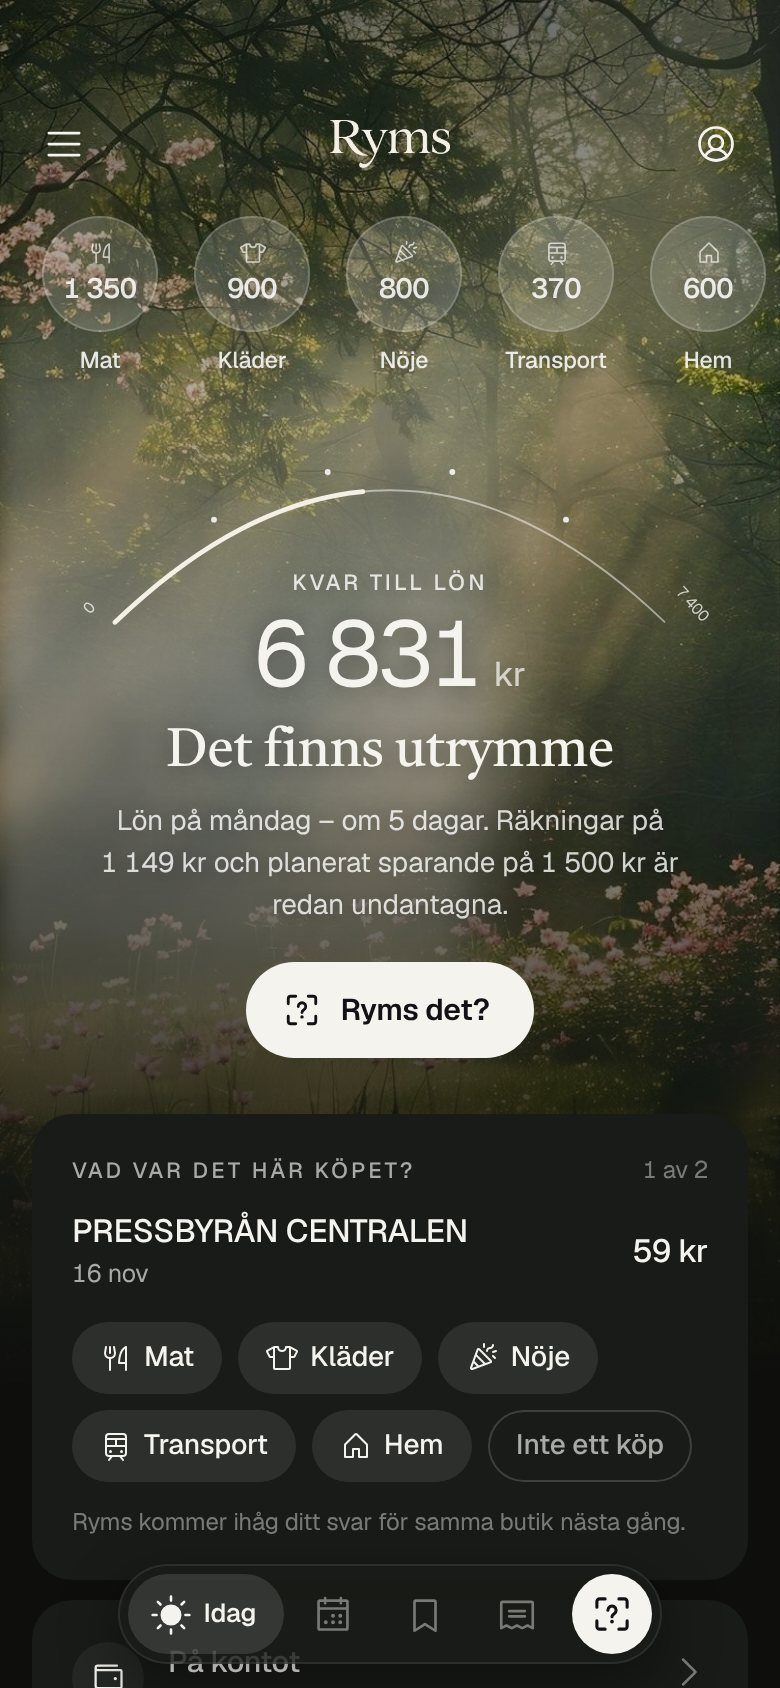
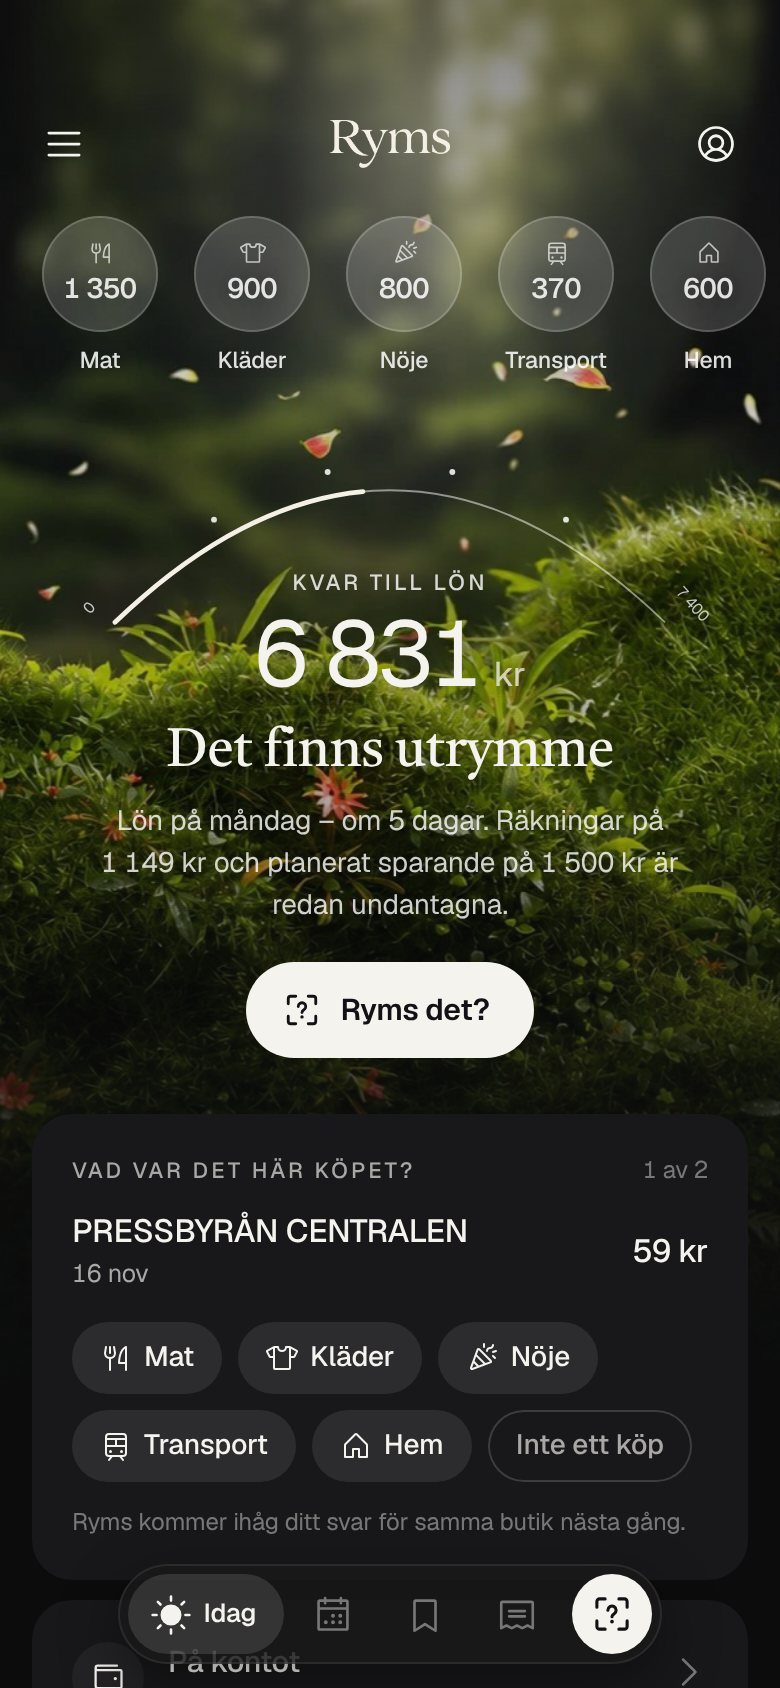
Mosskullen som bakgrund i appen
Dimman är borttagen. Blomblad singlar ned och ljuset mellan träden
andas. Landningssidans telefon visar det nya utseendet.

Claude-Session: https://claude.ai/code/session_01GAD7svFHpQ8hFb5MfyqAze

diff --git a/src/components/Backdrop.tsx b/src/components/Backdrop.tsx
@@ -1,6 +1,6 @@
 /**
- * Fotot i toppen av appen: en skogsglänta i morgonljus. Två lager dimma driver långsamt
- * åt var sitt håll över bilden, så att den känns levande – som en stilla film.
+ * Fotot i toppen av appen: en mossklädd kulle i skogen. Blomblad singlar ned och ljuset
+ * mellan träden andas långsamt, så att bilden känns levande – som en stilla film.
  */
 /** Blombladen som singlar ned: fasta värden, så att servern och webbläsaren ritar samma sak. */
 const PETALS = [
@@ -19,22 +19,10 @@ const PETALS = [
 ];
 
 export function Backdrop() {
-  const fog = (cls: string) => (
-    <div className={`fog ${cls}`}>
-      <div className="fog-track">
-        {/* eslint-disable-next-line @next/next/no-img-element */}
-        <img src="/bg/fog.png" alt="" />
-        {/* eslint-disable-next-line @next/next/no-img-element */}
-        <img src="/bg/fog.png" alt="" />
-      </div>
-    </div>
-  );
   return (
     <div className="backdrop" aria-hidden>
       {/* eslint-disable-next-line @next/next/no-img-element */}
       <img className="photo" src="/bg/hero.jpg" alt="" />
-      {fog("near")}
-      {fog("far")}
       <div className="rays" />
       <div className="petals">
         {PETALS.map((p, i) => (

diff --git a/src/app/globals.css b/src/app/globals.css
@@ -2218,3 +2218,26 @@ body:not(:has(.shell.home)):not(:has([data-testid="result"])) .backdrop::after {
     display: none;
   }
 }
+
+/* ═════════ Mosskullen: ljuset mellan träden andas, blombladen faller ═════════ */
+.backdrop img.photo {
+  object-position: 50% 50%;
+  filter: none;
+}
+.backdrop .rays {
+  background: radial-gradient(42% 34% at 54% 9%, rgba(255, 250, 225, 0.5) 0%, rgba(255, 250, 225, 0.14) 46%, rgba(255, 250, 225, 0) 100%);
+  animation: glow 9s ease-in-out infinite alternate;
+}
+@keyframes glow {
+  from {
+    opacity: 0.2;
+    transform: scale(0.96);
+  }
+  to {
+    opacity: 1;
+    transform: scale(1.06);
+  }
+}
+.backdrop::after {
+  background: linear-gradient(180deg, rgba(12, 12, 13, 0.5) 0%, rgba(12, 12, 13, 0.2) 26%, rgba(12, 12, 13, 0.3) 56%, rgba(12, 12, 13, 0.86) 84%, var(--bg) 100%);
+}
